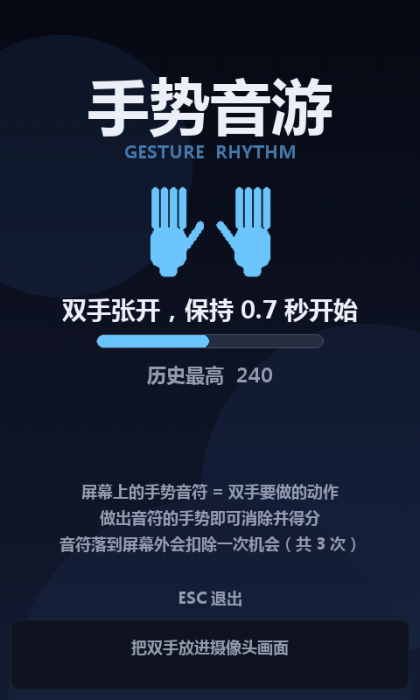
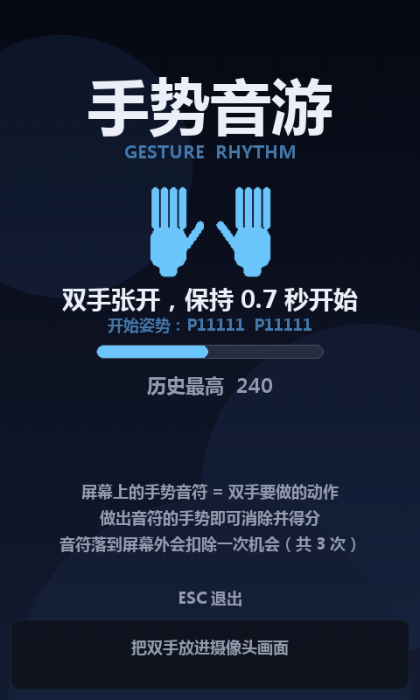
feat: 开始游戏必须正好做出 P11111P11111
- 识别帧改为携带 start_pose（编码 === P11111P11111），不再接受「3/4 长指伸出」的宽松判定
- 开始界面增加「开始姿势：P11111 P11111」提示，摄像头窗口状态改为 START: hold P11111 P11111
- 测试、自检、README 与实现报告同步

Changed region(s): [[0.1238, 0.39, 0.8667, 0.57]]

diff --git a/test_rhythm_logic.py b/test_rhythm_logic.py
@@ -37,8 +37,8 @@ def check(name, condition, detail=""):
                              "  " + detail if detail else ""))
 
 
-def gesture(code=None, both_open=False):
-    return SimpleNamespace(code=code, both_open=both_open, hand_count=2)
+def gesture(code=None, start_pose=False):
+    return SimpleNamespace(code=code, start_pose=start_pose, hand_count=2)
 
 
 def advance(game, seconds, gesture_state=None, step=1.0 / 60.0):
@@ -230,18 +230,31 @@ def test_landmark_classifier():
           classify_hand(build_hand((1, 1, 1, 1))[:10], "L") is None)
 
 
-def test_start_gate_tolerance():
-    from gesture_twohands import HandReading
+def test_start_pose():
+    from gesture_twohands import START_CODE, is_start_pose
 
-    check("open hand counts as open",
-          HandReading("L", "P", "11111").is_open)
-    check("one misread finger still counts as open",
-          HandReading("L", "P", "10111").is_open)
-    check("two folded fingers are not open",
-          not HandReading("L", "P", "10011").is_open)
-    check("fist is not open", not HandReading("L", "P", "00000").is_open)
-    check("pointing hand is not open",
-          not HandReading("L", "P", "01000").is_open)
+    check("start pose code", START_CODE == "P11111P11111", START_CODE)
+    check("exactly both hands open with P thumbs",
+          is_start_pose("P11111P11111"))
+    check("N thumbs do not start",
+          not is_start_pose("N11111N11111") and
+          not is_start_pose("P11111N11111") and
+          not is_start_pose("N11111P11111"))
+    check("a folded finger does not start",
+          not is_start_pose("P11110P11110") and
+          not is_start_pose("P11111P01111"))
+    check("a fist does not start",
+          not is_start_pose("P00000P11111") and
+          not is_start_pose("P00000P00000"))
+    check("no code does not start", not is_start_pose(None))
+
+    # The ready screen only fills its hold bar for this exact pose.
+    game = RhythmGame(seed=13, highscore=HighScoreStore(os.devnull))
+    advance(game, 0.5, gesture(start_pose=True))
+    check("start pose fills the hold bar", game.hold_progress > 0.6,
+          "{:.2f}".format(game.hold_progress))
+    advance(game, 0.5, gesture(start_pose=False))
+    check("other poses drain the hold bar", game.hold_progress == 0.0)
 
 
 def test_finger_metrics():
@@ -447,17 +460,17 @@ def test_note_generation_distribution():
 def test_ready_and_start():
     game = RhythmGame(seed=2, highscore=HighScoreStore(os.devnull))
     check("starts in ready state", game.state == RhythmGame.READY)
-    advance(game, 0.3, gesture(both_open=True))
+    advance(game, 0.3, gesture(start_pose=True))
     check("hold progress grows", 0.4 < game.hold_progress < 0.5,
           "{:.2f}".format(game.hold_progress))
-    game.update(0.1, gesture(both_open=False))
+    game.update(0.1, gesture(start_pose=False))
     check("hold decays when hands close", game.hold_progress < 0.45)
     events = []
     for _ in range(120):
-        events.extend(game.update(1 / 60.0, gesture(both_open=True)))
+        events.extend(game.update(1 / 60.0, gesture(start_pose=True)))
         if game.state == RhythmGame.PLAYING:
             break
-    check("both hands open start the game",
+    check("start pose starts the game",
           game.state == RhythmGame.PLAYING)
     check("start event emitted",
           any(event["type"] == "start" for event in events))
@@ -590,14 +603,14 @@ def test_game_over_requires_restart():
     game.start()
     game.chances = 0
     game._finish()
-    advance(game, 0.5, gesture(both_open=True))
+    advance(game, 0.5, gesture(start_pose=True))
     check("game over does not restart on its own",
           game.state == RhythmGame.OVER)
     game.restart()
     check("restart returns to the ready screen",
           game.state == RhythmGame.READY)
-    advance(game, 1.0, gesture(both_open=True))
-    check("the new round needs the both hands hold",
+    advance(game, 1.0, gesture(start_pose=True))
+    check("the new round needs the start pose",
           game.state == RhythmGame.PLAYING)
 
 
@@ -608,13 +621,13 @@ def test_restart_requires_hold():
     game._finish()
     game.restart()
     check("restart resets the hold timer", game.hold_progress == 0.0)
-    advance(game, 0.3, gesture(both_open=True))
+    advance(game, 0.3, gesture(start_pose=True))
     check("holding is required again after restart",
           game.state == RhythmGame.READY)
     check("hold progress accumulates again",
           0.3 < game.hold_progress < 0.5,
           "{:.2f}".format(game.hold_progress))
-    advance(game, 0.6, gesture(both_open=True))
+    advance(game, 0.6, gesture(start_pose=True))
     check("holding hands starts the new round",
           game.state == RhythmGame.PLAYING)
     check("the new round has full chances", game.chances == 3)

diff --git a/gesture_rhythm.py b/gesture_rhythm.py
@@ -10,11 +10,11 @@ skeletons, and the pygame game window with falling gesture notes.
 
 Controls
 --------
-* show both hands open for 0.7 s: start the round
+* hold P11111 P11111 for 0.7 s: start the round
 * make the gesture drawn on a falling note: clear it and score
 * a note that reaches the bottom costs one of the three chances
 * click 重新开始 (or press space) on the game over screen: back to the ready
-  screen, where the round starts by holding both hands open again
+  screen, where the round starts by holding P11111 P11111 again
 * ESC quits
 """
 
@@ -202,12 +202,14 @@ class RhythmScene(object):
                    ((self.size[0] - total) // 2, 206), hand_size, 14)
 
         draw_text(screen, fonts["medium"], "双手张开，保持 0.7 秒开始",
-                  TEXT_LIGHT, center=(self.size[0] // 2, 352))
-        draw_progress_bar(screen, pygame.Rect(110, 382, 260, 16),
+                  TEXT_LIGHT, center=(self.size[0] // 2, 340))
+        draw_text(screen, fonts["tiny"], "开始姿势：P11111  P11111",
+                  ACCENT_DIM, center=(self.size[0] // 2, 370))
+        draw_progress_bar(screen, pygame.Rect(110, 394, 260, 16),
                           game.hold_progress, ACCENT)
         draw_text(screen, fonts["small"],
                   "历史最高  {}".format(game.best_score), TEXT_DIM,
-                  center=(self.size[0] // 2, 428))
+                  center=(self.size[0] // 2, 440))
 
         for index, line in enumerate((
                 "屏幕上的手势音符 = 双手要做的动作",
@@ -370,7 +372,7 @@ def annotate_camera(image, game, gesture):
     by_side = {hand.side: hand for hand in hands}
 
     states = {
-        RhythmGame.READY: "START: hold BOTH hands OPEN",
+        RhythmGame.READY: "START: hold P11111 P11111",
         RhythmGame.PLAYING: "PLAYING: match the note gestures",
         RhythmGame.OVER: "GAME OVER - restart on the game window",
     }
@@ -522,7 +524,7 @@ def run(source, scene=None, sound=None, hook=None, fps=60,
 def _handle_restart(game):
     """The restart button only returns to the ready screen.
 
-    Starting to play always requires holding both hands open, every round.
+    Starting to play always requires holding P11111 P11111, every round.
     """
     if game.state == RhythmGame.OVER:
         game.restart()

diff --git a/gesture_twohands.py b/gesture_twohands.py
@@ -186,31 +186,31 @@ class HandReading(object):
     def code(self):
         return hand_code(self.thumb, self.bits)
 
-    @property
-    def is_open(self):
-        """Open enough to count as "张开" for the start gate.
-
-        At least three of the four long fingers have to be extended: a single
-        misread finger must not stop the player from starting a round, while a
-        fist or a pointing hand is still clearly not open.
-        """
-        return self.bits[1:].count("1") >= 3
-
     def __repr__(self):
         return "HandReading({}, {})".format(self.side, self.code)
+
+
+#: The exact pose that starts a round: both hands fully open, both thumbs
+#: pointing towards the middle of the screen.
+START_CODE = "P11111P11111"
+
+
+def is_start_pose(code):
+    """True when a 12 character code is the "both hands open" start pose."""
+    return code == START_CODE
 
 
 class GestureFrame(object):
     """Result of one recognition pass."""
 
-    __slots__ = ("code", "hands", "image", "both_open", "timestamp")
+    __slots__ = ("code", "hands", "image", "start_pose", "timestamp")
 
-    def __init__(self, code=None, hands=None, image=None, both_open=False,
+    def __init__(self, code=None, hands=None, image=None, start_pose=False,
                  timestamp=0.0):
         self.code = code
         self.hands = hands or []
         self.image = image
-        self.both_open = both_open
+        self.start_pose = start_pose
         self.timestamp = timestamp
 
     @property
@@ -336,13 +336,13 @@ class TwoHandRecognizer(object):
         if len(hands) == 2:
             code = make_code(hands[0].code, hands[1].code)
 
-        both_open = len(hands) == 2 and all(hand.is_open for hand in hands)
+        start_pose = is_start_pose(code)
 
         for hand in hands:
             self._draw_hand(frame_bgr, hand)
 
         return GestureFrame(code=code, hands=hands, image=frame_bgr,
-                            both_open=both_open, timestamp=time.time())
+                            start_pose=start_pose, timestamp=time.time())
 
     # -- drawing --------------------------------------------------------
     def _draw_hand(self, frame, hand):

diff --git a/game_core.py b/game_core.py
@@ -27,7 +27,7 @@ NOTE_HEIGHT = 130
 
 MAX_CHANCES = 3
 RAMP_SECONDS = 90.0       # seconds from "as easy as possible" to full difficulty
-HOLD_SECONDS = 0.7        # both hands open for this long starts the game
+HOLD_SECONDS = 0.7        # the P11111P11111 pose held this long starts the game
 HIT_COOLDOWN = 0.22       # seconds between two matches of the same gesture
 POPUP_TTL = 0.85
 
@@ -319,8 +319,8 @@ class RhythmGame(object):
     def restart(self):
         """Restart button: back to the ready screen.
 
-        The next round always has to be started by holding both hands open
-        again, exactly like the first round.
+        The next round always has to be started by holding P11111P11111 again,
+        exactly like the first round.
         """
         self.reset()
 
@@ -339,7 +339,7 @@ class RhythmGame(object):
         """Advance the game by *dt* seconds.
 
         Args:
-            gesture: object with ``code`` (12 chars or None) and ``both_open``
+            gesture: object with ``code`` (12 chars or None) and ``start_pose``
                 attributes, i.e. a :class:`gesture_twohands.GestureFrame`.
         """
         dt = max(0.0, min(float(dt), 0.1))
@@ -364,8 +364,8 @@ class RhythmGame(object):
         self.popups = [p for p in self.popups if p["age"] < POPUP_TTL]
 
     def _update_ready(self, dt, gesture):
-        both_open = bool(getattr(gesture, "both_open", False))
-        if not both_open:
+        start_pose = bool(getattr(gesture, "start_pose", False))
+        if not start_pose:
             self.hold_time = max(0.0, self.hold_time - dt * 2.5)
             return
         self.hold_time += dt

diff --git a/capture_screens.py b/capture_screens.py
@@ -62,14 +62,15 @@ class ScriptedSource(object):
 
     def __init__(self):
         self.code = None
-        self.both_open = False
+        self.start_pose = False
 
-    def set(self, code=None, both_open=False):
+    def set(self, code=None, start_pose=False):
         self.code = code
-        self.both_open = both_open
+        self.start_pose = start_pose
 
     def latest(self):
-        gesture = SimpleNamespace(code=self.code, both_open=self.both_open,
+        gesture = SimpleNamespace(code=self.code,
+                                  start_pose=self.start_pose,
                                   hand_count=2 if self.code else 0)
         return None, gesture
 
@@ -99,7 +100,7 @@ def make_hook(source):
             return False
 
         if game.state == RhythmGame.READY:
-            source.set(both_open=True)
+            source.set(start_pose=True)
             if frame == 22:
                 save_shot("screenshot_start.png")
             return None

diff --git a/verify_environment.py b/verify_environment.py
@@ -177,7 +177,7 @@ def check_game_logic():
            game.state == RhythmGame.READY)
     game.start()
     for _ in range(120):
-        game.update(1 / 60.0, SimpleNamespace(code=None, both_open=False))
+        game.update(1 / 60.0, SimpleNamespace(code=None, start_pose=False))
     record("notes spawn while playing", len(game.notes) > 0,
            "{} note(s)".format(len(game.notes)))
 

diff --git a/README.md b/README.md
@@ -15,7 +15,7 @@
 - **双手识别**：MediaPipe Hands 处理整幅镜像画面，按关节夹角判断手指伸/屈，
   左右手按画面位置区分。
 - **196 种手势音符**：5 / 10 / 15 / 20 分四档，分别用绿 / 蓝 / 黄 / 红卡片和手势图表示。
-- **完整对局**：双手张开开始 → 音符下落 → 做出手势消除 → 漏掉扣机会 → 3 次机会用尽结束 →
+- **完整对局**：做出开始姿势 → 音符下落 → 做出手势消除 → 漏掉扣机会 → 3 次机会用尽结束 →
   显示历史最高分与「重新开始」。
 - **难度递增**：音符更快、更密、高分更多，90 秒升到满难度。
 - **无素材依赖**：手势图、音符卡片、音效全部由代码生成，只额外需要一个中文字体文件。
@@ -45,19 +45,20 @@ run_game.bat
   （6 字符编码 + 拇指伸出/折叠）以及合并后的 12 字符编码。
 - `手势音游 / Gesture Rhythm`：游戏窗口（场景按 480×800 设计，等比缩小 87.5% 显示为 420×700）。
 
-没有摄像头时会回退到虚拟摄像头：界面仍可启动，但**无法开始游戏**（开始必须双手张开）。
+没有摄像头时会回退到虚拟摄像头：界面仍可启动，但**无法开始游戏**（开始必须做出 P11111 P11111）。
 可用 `GAME_CAMERA=virtual` 强制虚拟摄像头、`GAME_NO_ELEVATE=1` 跳过提权、`GAME_NO_SOUND=1` 关闭音效、
 `GAME_HAND_MODEL=1` 换用更精确但更慢的 MediaPipe 模型。
 
 ## 玩法
 
-1. 双手张开保持 **0.7 秒**，游戏开始；**每一局都要这样开始**（结束后重新开始也一样）；
+1. 双手做出 **P11111 P11111**（两手完全张开、拇指都朝向屏幕中央）并保持 **0.7 秒**，游戏开始；
+   **每一局都要这样开始**（结束后重新开始也一样）；
 2. 手势音符从顶端下落，卡片上画着双手要做的动作和分值；**收起的大拇指会额外用虚线勾出伸出时的轮廓**，
    提示这只手的拇指要收起来；
 3. 用双手做出卡片上的手势，即可消除**最靠下的那个**匹配音符并得分（0.22 秒冷却）；
 4. 音符落到判定线以下算漏掉，扣 1 次机会，整局共 **3 次**；
 5. 机会用尽 → 游戏结束，显示本局得分、历史最高分；点击「重新开始」或按空格回到开始界面，
-   再双手张开开始新的一局。
+   再做出开始姿势开始新的一局。
 
 键盘：ESC 退出；结束界面可用空格 / 回车 / 鼠标点击「重新开始」。
 
@@ -89,7 +90,7 @@ run_game.bat
 任何一个关节弯下去都判为收起（半握 150° 也算收起）。拇指的折叠是绕拇指根部旋转、
 它自己的关节基本是直的，所以改用「IP 关节 ≥ 150° 且指尖离掌心 ≥ 0.72 倍掌宽」判断，
 握拳时拇指搭在手指上不会被误判为伸出。最近 4 帧逐字符多数表决防抖；
-「双手张开」的开始判定允许每只手有 1 根长指误判（≥ 3 根伸出即算张开）。
+开始判定要求识别出的 12 字符编码正好是 **P11111P11111**：两手十指全开、两个拇指都朝向屏幕中央。
 
 > 小技巧：双手离摄像头近一点、尽量占满画面中央，手指的像素更多，识别更稳；
 > 摄像头窗口会实时显示 LEFT / RIGHT 的识别结果，可以对照检查是哪根手指被读错。

diff --git a/docs/实现报告.md b/docs/实现报告.md
@@ -11,16 +11,16 @@
 ### 1.1 状态机
 
 ```
-READY --(双手张开保持 0.7 s)--> PLAYING --(机会用尽)--> OVER
-  ^                                                       |
-  +------------------(点击「重新开始」/ 空格)--------------+
+READY --(P11111P11111 保持 0.7 s)--> PLAYING --(机会用尽)--> OVER
+  ^                                                            |
+  +--------------------(点击「重新开始」/ 空格)-----------------+
 ```
 
-- **READY**：显示标题、张开双手示意图、张开进度、历史最高分；双手（每只手至少 3 根长指伸出）
-  保持 0.7 s 后开始。松手时进度快速回落，不会误触。
+- **READY**：显示标题、张开双手示意图、张开进度、历史最高分；双手做出 `P11111P11111`
+  （两手十指全开、拇指都朝向屏幕中央）并保持 0.7 s 后开始。松手时进度快速回落，不会误触。
 - **PLAYING**：每帧比对双手识别结果与屏幕上的音符。
 - **OVER**：显示本局得分、历史最高分、命中/最高连击/漏掉次数；「重新开始」只回到 READY，
-  下一局同样要重新双手张开（保证每局开始都有同一个动作门槛）。
+  下一局同样要重新做出开始姿势（保证每局开始都有同一个动作门槛）。
 
 ### 1.2 手势编码
 
@@ -146,7 +146,7 @@ RESULT: all passed
 
 覆盖：四档数量 5/5/12/174/196、分类表自洽性（含「N 手拇指必须伸出」全表断言）、编解码与非法输入、
 拇指朝向映射、合成 landmark 分类（张开/握拳/单指/三指）、3D 关节角阈值（90°/150° 折叠、
-DIP 勾指、朝镜头伸直、拇指搭掌）、张开判定容错、平滑表决、难度三段式（0-30 s 只加音符种类且
+DIP 勾指、朝镜头伸直、拇指搭掌）、开始姿势判定（必须正好是 P11111P11111）、平滑表决、难度三段式（0-30 s 只加音符种类且
 无红色、30-60 s 间隔与速度同步但不到极限、60-90 s 红色与极限同步、速度波动）、
 生成概率分布、命中/冷却/取最靠下、漏掉/机会/结束、重开必须重新保持张开、
 最高分持久化（含损坏 JSON 回退）、生成器避开拥挤轨道。
@@ -188,7 +188,7 @@ RESULT: all 31 checks passed
    摄像头窗口会实时显示 12 字符，便于自查。
 3. 20 分档 174 种手势，玩家不可能记全，只能看卡片图片；双手交叉时左右手会按画面位置交换。
 4. 摄像头分辨率与手在画面中的大小会影响 landmark 精度：手离镜头越近、占比越大越准。
-5. 游戏需要摄像头才能开始（开始必须双手张开），虚拟摄像头只用于打开界面/截图。
+5. 游戏需要摄像头才能开始（开始必须做出 P11111P11111），虚拟摄像头只用于打开界面/截图。
 6. 没有暂停功能；退出用 ESC。
 
 ## 七、运行与复现
